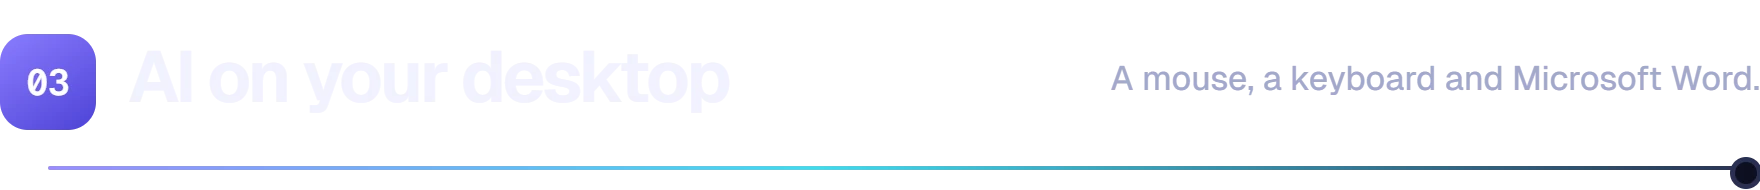
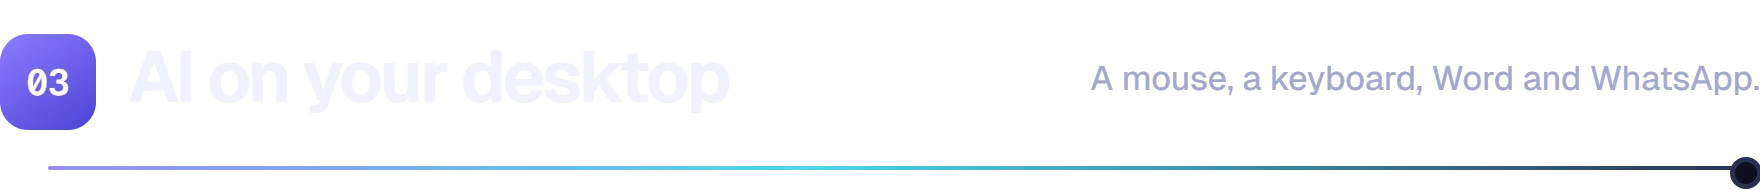
Add the WhatsApp card and drop Savia (#2)

Changed region(s): [[0.5938, 0.3421, 1.0, 0.5]]

diff --git a/tools/tiles.html b/tools/tiles.html
@@ -133,6 +133,16 @@ const ART = {
     const chip=(n,i)=>{const x=44+(i%4)*192,y=62+Math.floor(i/4)*134,c=i%3===0?'var(--cyan)':'var(--violet)';return `<rect x="${x}" y="${y}" width="176" height="112" rx="16" fill="var(--card)" stroke="${c}" stroke-width="3"/><text x="${x+88}" y="${y+68}" text-anchor="middle" font-size="30" font-weight="600" fill="var(--ink)">${n}</text>`;};
     return `<svg viewBox="0 0 840 378" preserveAspectRatio="xMidYMid slice">${names.map(chip).join('')}</svg>`;
   },
+  // Chat: a conversation where the AI answers.
+  chat: () => {
+    const bubble=(x,y,w,mine,lines)=>`<rect x="${x}" y="${y}" width="${w}" height="${30+lines*30}" rx="22" fill="${mine?'color-mix(in srgb, var(--violet) 22%, var(--card))':'var(--card)'}" stroke="${mine?'var(--violet)':'var(--line)'}" stroke-width="2.5"/>`+Array.from({length:lines},(_,i)=>`<rect x="${x+24}" y="${y+24+i*30}" width="${w-48-(i===lines-1?60:0)}" height="12" rx="6" fill="${mine?'var(--violet)':'var(--faint)'}" opacity="${mine?.75:.6}"/>`).join('');
+    return `<svg viewBox="0 0 840 378" preserveAspectRatio="xMidYMid slice">
+      <rect x="230" y="20" width="380" height="420" rx="40" fill="var(--bg)" stroke="var(--line)" stroke-width="3"/>
+      ${bubble(258,58,250,false,2)}${bubble(332,152,250,true,2)}${bubble(258,246,210,false,1)}
+      <rect x="512" y="216" width="72" height="46" rx="12" fill="#0a8ba1"/><text x="548" y="249" text-anchor="middle" font-size="28" font-weight="600" fill="#fff">AI</text>
+      <rect x="258" y="318" width="324" height="44" rx="22" fill="var(--card)" stroke="var(--line)" stroke-width="2.5"/>
+    </svg>`;
+  },
   // Word: a page being written.
   word: () => {
     const bar=(y,w,c='var(--line)')=>`<rect x="252" y="${y}" width="${w}" height="14" rx="7" fill="${c}"/>`;

diff --git a/README.md b/README.md
@@ -25,11 +25,11 @@
 
 <br>
 
-<picture><source media="(prefers-color-scheme: dark)" srcset="assets/tiles/s-desktop-dark.webp"><img src="assets/tiles/s-desktop-light.webp" alt="AI on your desktop. A mouse, a keyboard and Microsoft Word." width="100%"></picture>
+<picture><source media="(prefers-color-scheme: dark)" srcset="assets/tiles/s-desktop-dark.webp"><img src="assets/tiles/s-desktop-light.webp" alt="AI on your desktop. A mouse, a keyboard, Word and WhatsApp." width="100%"></picture>
 
 <table>
-<tr><td width="33%" valign="top"><a href="https://github.com/mario-andreschak/mcp-windows-desktop-automation"><picture><source media="(prefers-color-scheme: dark)" srcset="assets/tiles/windows-automation-dark.webp"><img src="assets/tiles/windows-automation-light.webp" alt="mcp-windows-automation: Lets an AI drive Windows apps with mouse and keyboard." width="100%"></picture></a></td><td width="33%" valign="top"><a href="https://github.com/mario-andreschak/mcp-msoffice-interop-word"><picture><source media="(prefers-color-scheme: dark)" srcset="assets/tiles/word-dark.webp"><img src="assets/tiles/word-light.webp" alt="mcp-office-word: Lets an AI write and edit real Word documents." width="100%"></picture></a></td><td width="33%" valign="top"><a href="https://github.com/mario-andreschak/mcp-essentials-windows"><picture><source media="(prefers-color-scheme: dark)" srcset="assets/tiles/essentials-dark.webp"><img src="assets/tiles/essentials-light.webp" alt="mcp-essentials-windows: Files, commands and screen capture for AI on Windows." width="100%"></picture></a></td></tr>
-<tr><td align="center"><img src="https://img.shields.io/github/stars/mario-andreschak/mcp-windows-desktop-automation?style=flat-square&label=stars&color=6d5ef0" alt="GitHub stars"></td><td align="center"><img src="https://img.shields.io/github/stars/mario-andreschak/mcp-msoffice-interop-word?style=flat-square&label=stars&color=6d5ef0" alt="GitHub stars"></td><td align="center"><img src="https://img.shields.io/github/stars/mario-andreschak/mcp-essentials-windows?style=flat-square&label=stars&color=6d5ef0" alt="GitHub stars"></td></tr>
+<tr><td width="33%" valign="top"><a href="https://github.com/mario-andreschak/mcp-windows-desktop-automation"><picture><source media="(prefers-color-scheme: dark)" srcset="assets/tiles/windows-automation-dark.webp"><img src="assets/tiles/windows-automation-light.webp" alt="mcp-windows-automation: Lets an AI drive Windows apps with mouse and keyboard." width="100%"></picture></a></td><td width="33%" valign="top"><a href="https://github.com/mario-andreschak/mcp-msoffice-interop-word"><picture><source media="(prefers-color-scheme: dark)" srcset="assets/tiles/word-dark.webp"><img src="assets/tiles/word-light.webp" alt="mcp-office-word: Lets an AI write and edit real Word documents." width="100%"></picture></a></td><td width="33%" valign="top"><a href="https://github.com/mario-andreschak/mcp-whatsapp-web"><picture><source media="(prefers-color-scheme: dark)" srcset="assets/tiles/whatsapp-dark.webp"><img src="assets/tiles/whatsapp-light.webp" alt="mcp-whatsapp-web: Lets an AI read and send your WhatsApp messages. Based on whatsapp-mcp." width="100%"></picture></a></td></tr>
+<tr><td align="center"><img src="https://img.shields.io/github/stars/mario-andreschak/mcp-windows-desktop-automation?style=flat-square&label=stars&color=6d5ef0" alt="GitHub stars"></td><td align="center"><img src="https://img.shields.io/github/stars/mario-andreschak/mcp-msoffice-interop-word?style=flat-square&label=stars&color=6d5ef0" alt="GitHub stars"></td><td align="center"><img src="https://img.shields.io/github/stars/mario-andreschak/mcp-whatsapp-web?style=flat-square&label=stars&color=6d5ef0" alt="GitHub stars"></td></tr>
 </table>
 
 
@@ -51,4 +51,4 @@
 
 <br>
 
-<sub>Also: <a href="https://github.com/mario-andreschak/mcp-veo2">mcp-veo2</a>, makes videos with Google Veo and images with Gemini · <a href="https://github.com/mario-andreschak/hotswap-mcp-bridge">hotswap-mcp-bridge</a>, swaps AI tools without dropping a request · <a href="https://github.com/mario-andreschak/docs-sap-abap-automated-documentation-prompts">docs-sap-abap</a>, prompts that write SAP documentation for you · <a href="https://github.com/mario-andreschak/factored-hackathon-2026-mcg">Savia</a>, our Factored Hackathon 2026 entry.</sub>
+<sub>Also: <a href="https://github.com/mario-andreschak/mcp-essentials-windows">mcp-essentials-windows</a>, files, commands and screen capture for AI on Windows · <a href="https://github.com/mario-andreschak/mcp-veo2">mcp-veo2</a>, makes videos with Google Veo and images with Gemini · <a href="https://github.com/mario-andreschak/hotswap-mcp-bridge">hotswap-mcp-bridge</a>, swaps AI tools without dropping a request · <a href="https://github.com/mario-andreschak/docs-sap-abap-automated-documentation-prompts">docs-sap-abap</a>, prompts that write SAP documentation for you.</sub>
